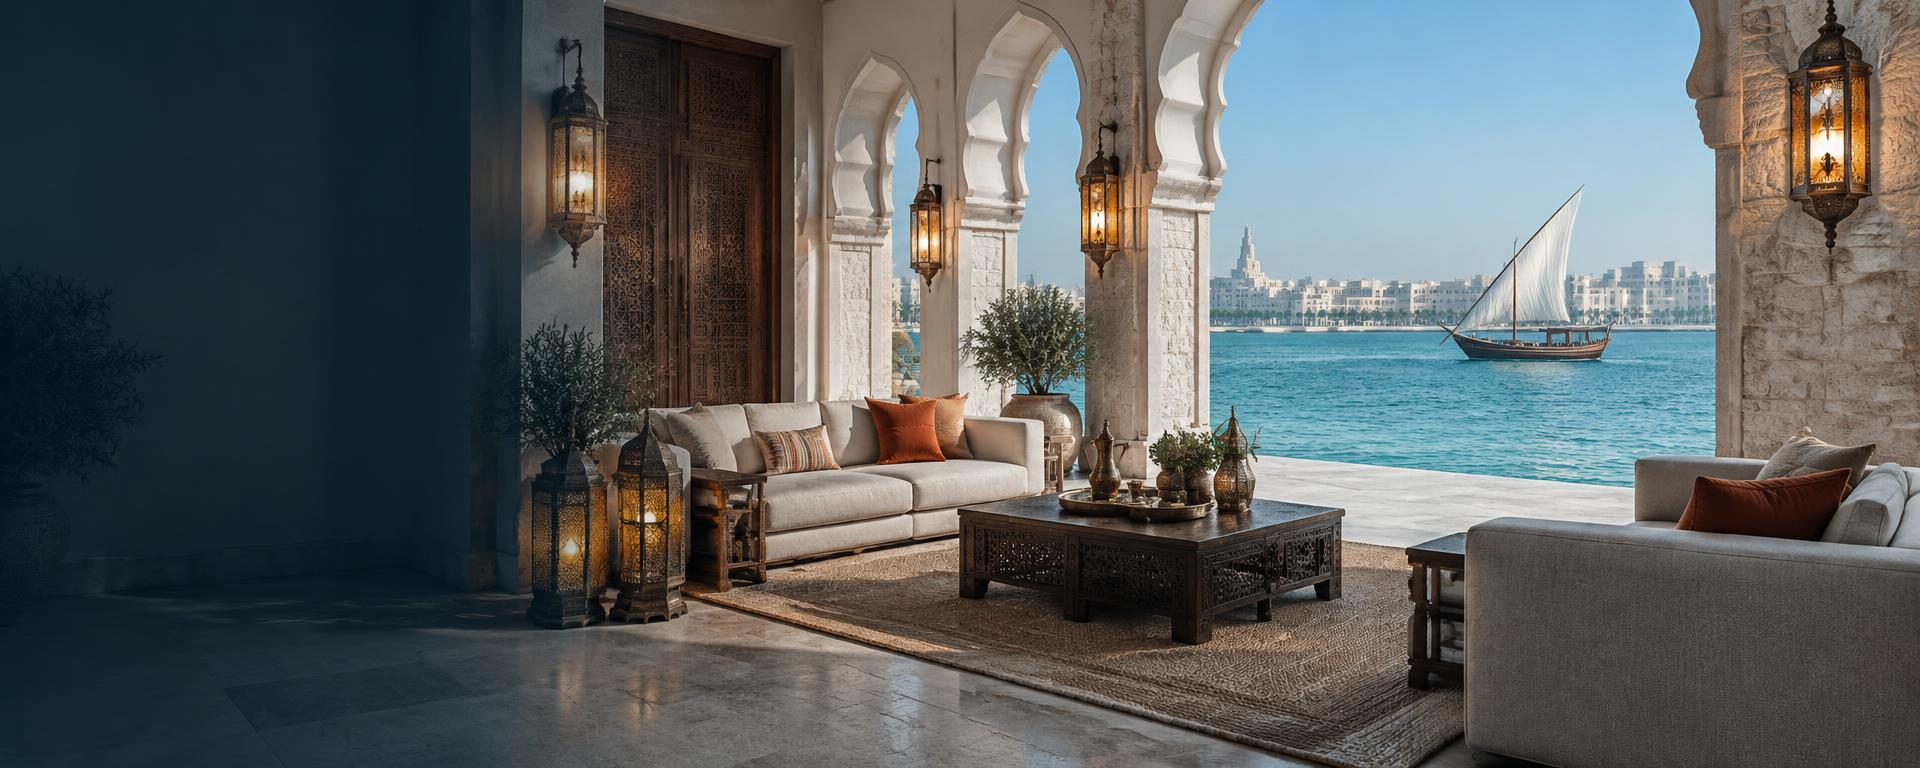
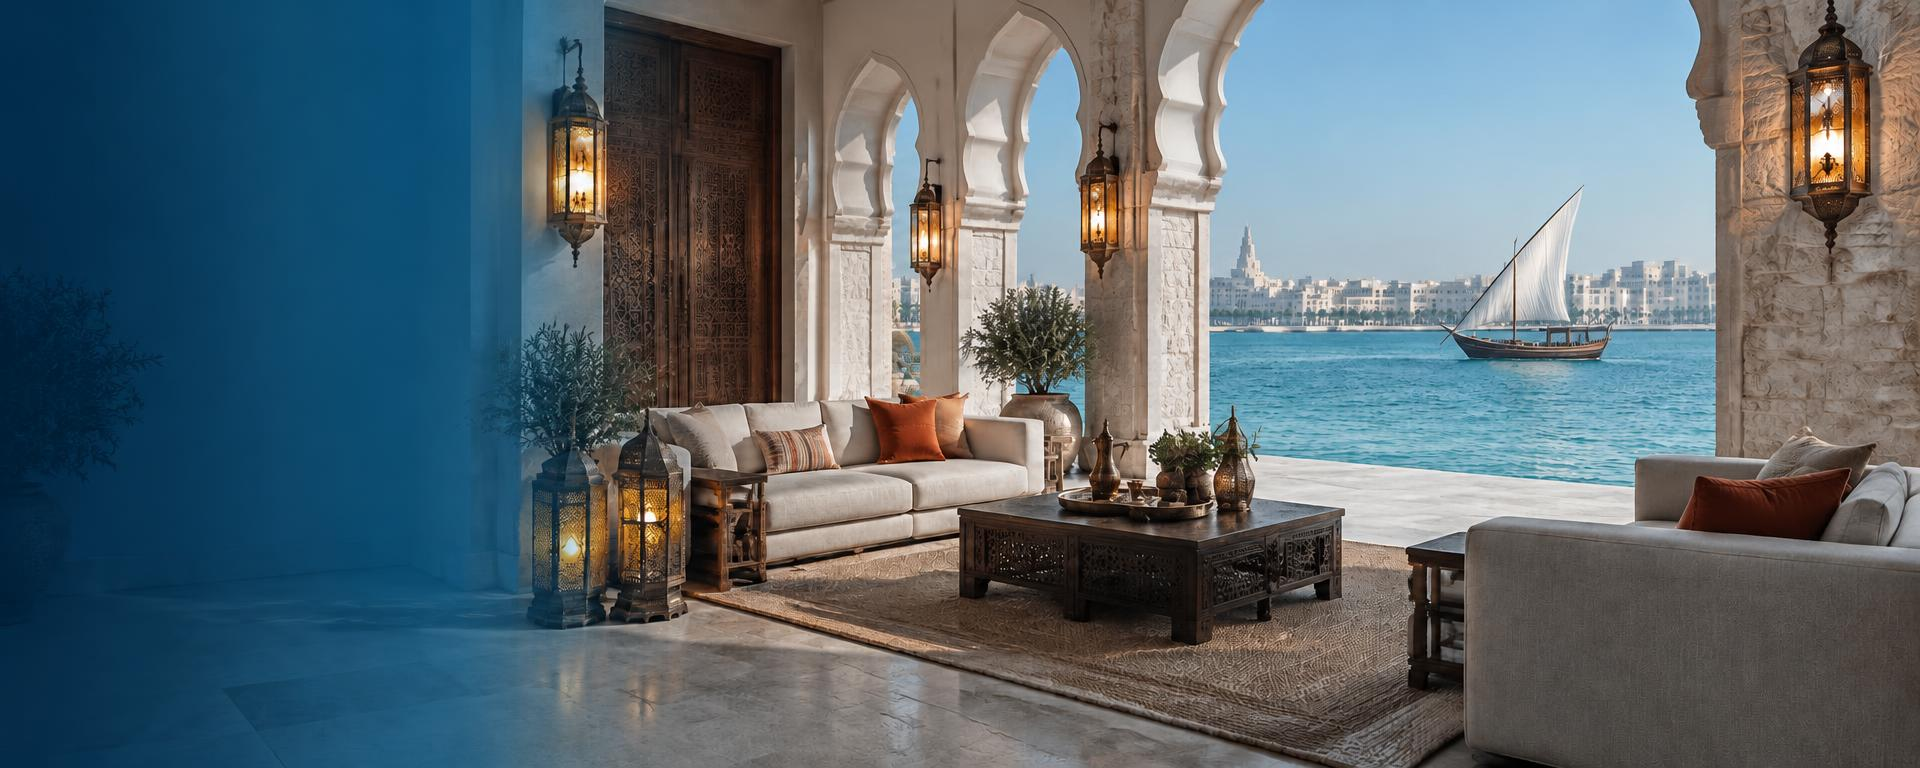
Recolour hero's dark zone to the sidebar navy gradient
The left third of the Live Board welcome hero (majlis-luxury.jpg) now
uses the sidebar's exact #012947 -> #1C82AB navy-to-blue gradient, so
the banner reads as a continuous extension of the sidebar. Same file
name, format and 1920x768 size; no code changes.

diff --git a/CHANGELOG.md b/CHANGELOG.md
@@ -16,6 +16,12 @@ Use `@<login>` of the person who asked for the change, even when Claude wrote th
 
 ---
 
+## 2026-11-18 · Hero's dark zone recoloured to the sidebar navy gradient · @abdulsalahuddin94-dev
+- **What:** `src/assets/photos/majlis-luxury.jpg` (Live Board welcome hero) edited in place — the dark left third now uses the sidebar's exact navy `#012947` → Gulf blue `#1C82AB` gradient instead of a generic dark overlay, so the banner reads as a continuous extension of the sidebar. Same file name, format and 1920×768 size; no code, layout or colour changes. The rest of the scene (coastal majlis, turquoise water, dhow, orange lantern accents) is untouched.
+- **Why:** Abdul: "ممكن الجزئ الغامق اللي على شمال الصورة يبقى بنفس درجات الأزرق اللي في الـSidebar".
+- **Decisions:** None new.
+- **PR:** —
+
 ## 2026-11-18 · Real Marsa Dhahab emblem replaces the interim mark · @abdulsalahuddin94-dev
 - **What:** `HotelMark` now renders @EmG38's emblem (`src/assets/marsa-dhahab-emblem.png`, transparent 400×275, sent by Abdul) instead of the interim dhow drawing, on the desktop sidebar, desktop sign-in and the staff app badge. Wide emblem is contained, never stretched (`.hotel-mark-img`).
 - **Why:** Abdul: "مش نفس اللوجو"; the first version used a placeholder because the file lived only on Eman's Lovable CDN.
